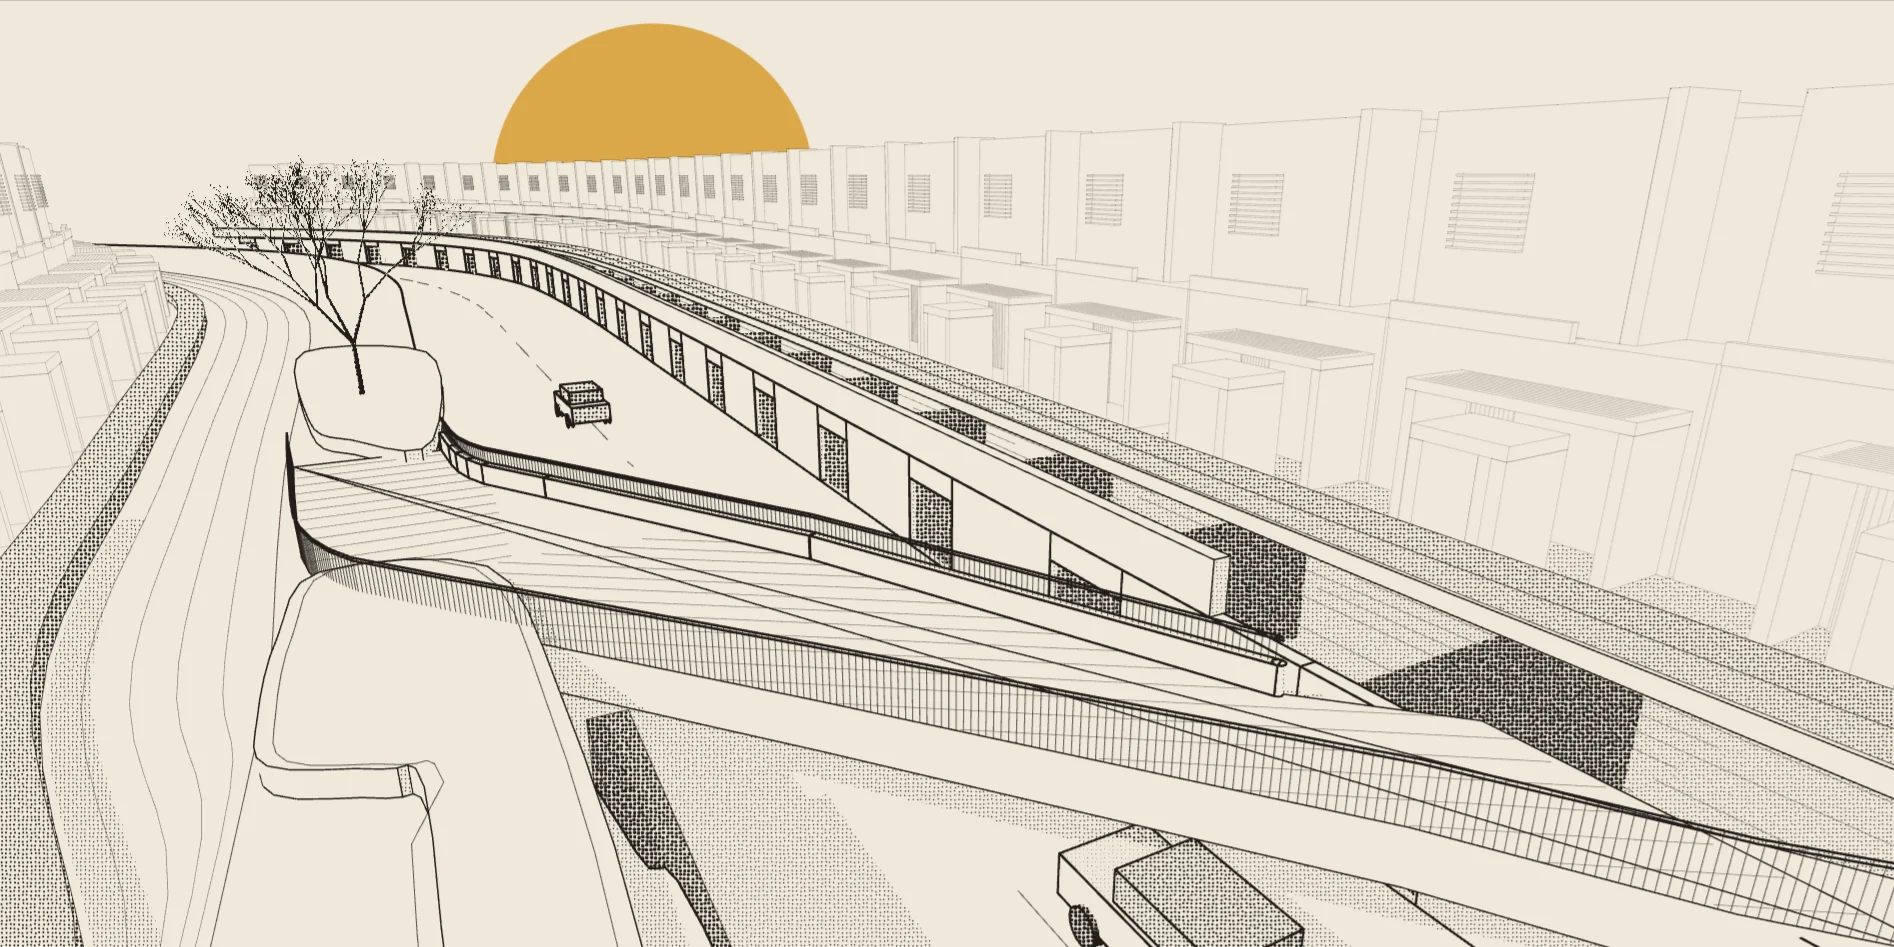
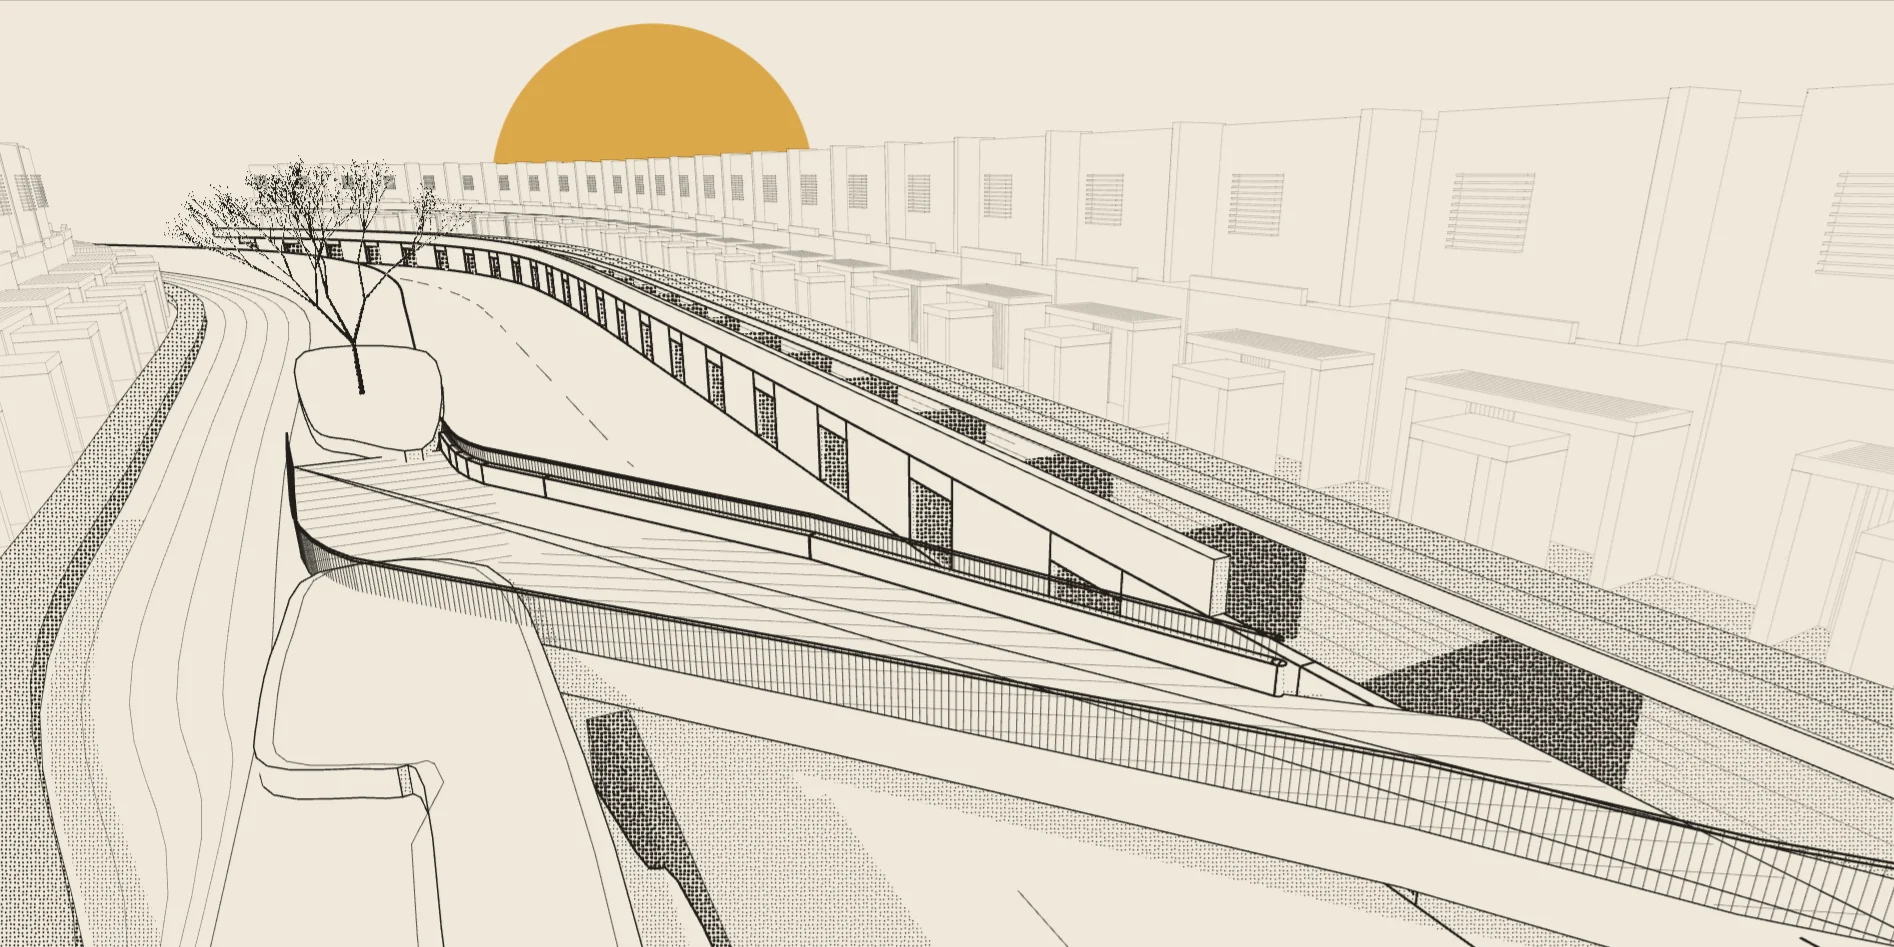
Stills without cars; record the one-world take in the plan
Claude-Session: https://claude.ai/code/session_01C95DWHDY8NmwjfweiUBywE

Changed region(s): [[0.5607, 0.8574, 0.7165, 1.0], [0.2804, 0.3981, 0.3427, 0.4593]]

diff --git a/docs/animation-plan.md b/docs/animation-plan.md
@@ -164,3 +164,10 @@
 - 拍片：`node tools/ink/film-page.cjs <out.mp4> [W H] [秒] [fps]`（整页），`tools/ink/film.cjs`（只拍 sample 的一镜到底）。
 
 还没做：开场（M0 百叶是画出来的）；Homes / Villas 那站还不能拖太阳（原来的卡片可以）。
+
+### 7.1 一个世界（用户：「还是不够顺……中间有什么你直接画出来，那些车直接 remove」）
+
+- 墨点换场拿掉了。八个地方放进**同一个世界**（`src/ink/world.js`），沿 x 排开，都朝原来描图的方向（−z），所以一个太阳照全部；每两个地方之间 50 m 画一段**想象的花园步道**（铺地、矮绿篱、一排树、一排别墅），在画面上写明「The walk between these places is imagined. The real layout is in the masterplan.」
+- 镜头是**一条连续的路线**：所有站的关键位 + 每段步道两个关键位，向心 Catmull-Rom，速度按弧长做平滑（不会一段快一段慢地跳）。
+- 世界分块（`stage.chunk / drop`）：镜头附近大约三个地方 + 它们之间的步道，后面的立刻释放。手机整页峰值 50 MB（这次连几何体缓冲一起算）。
+- 车：`adapter.js` 的 `car()` 什么都不画，所有图都没有车；入口和人行桥的后备静图重出了。
